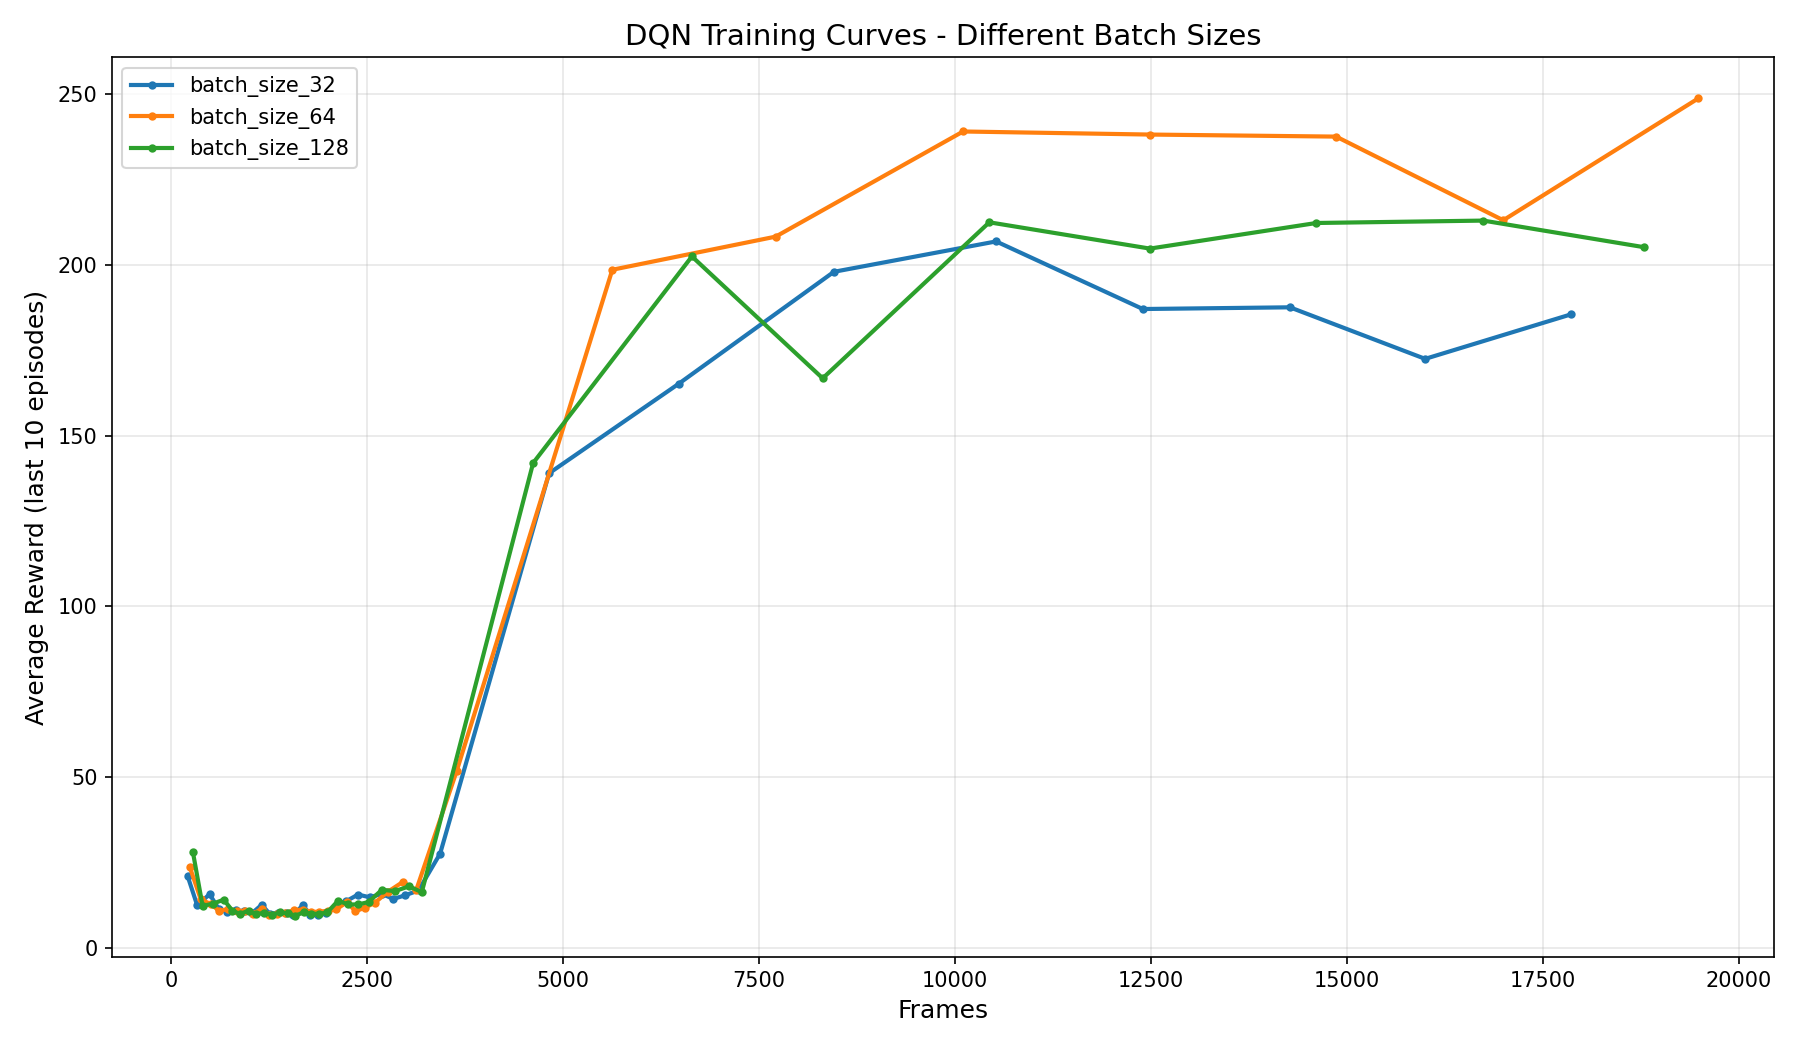
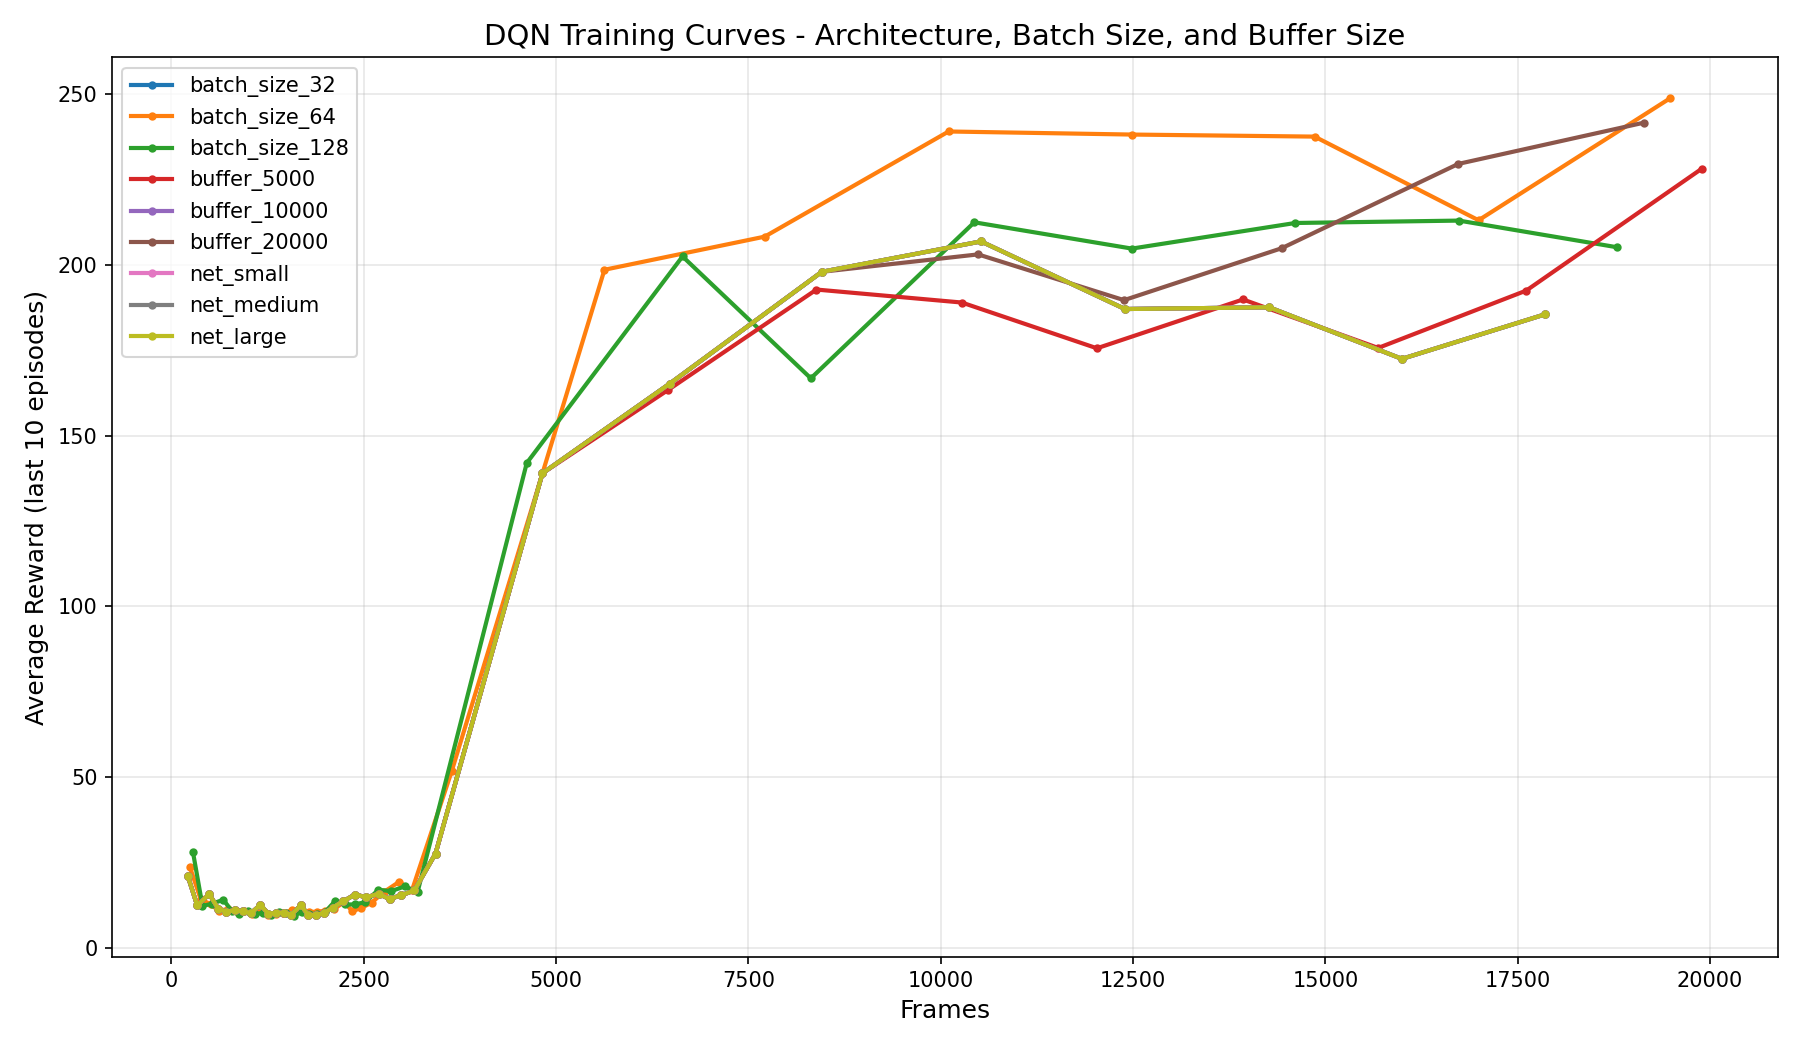
update training_results

diff --git a/rl_exercises/week_4/plot_training.py b/rl_exercises/week_4/plot_training.py
@@ -17,7 +17,7 @@ CONFIGS = [
     {"name": "net_large", "overrides": "", "config": "dqn_large"},
 ]
 
-RESULTS_DIR = Path("training_results")
+RESULTS_DIR = Path(__file__).parent / "training_results"
 RESULTS_DIR.mkdir(exist_ok=True)
 
 